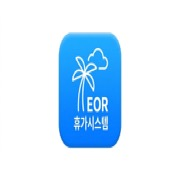
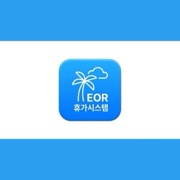
fix: 아이콘 원본 비율(1024x558) 패딩 후 정사각 export — 홈화면 찌그러짐 수정
Made-with: Cursor

diff --git a/public/sw.js b/public/sw.js
@@ -1,4 +1,4 @@
-const CACHE_NAME = "eor-pwa-v2-palm-2026";
+const CACHE_NAME = "eor-pwa-v2-square-icon";
 const APP_SHELL = [
   "./",
   "./index.html",
